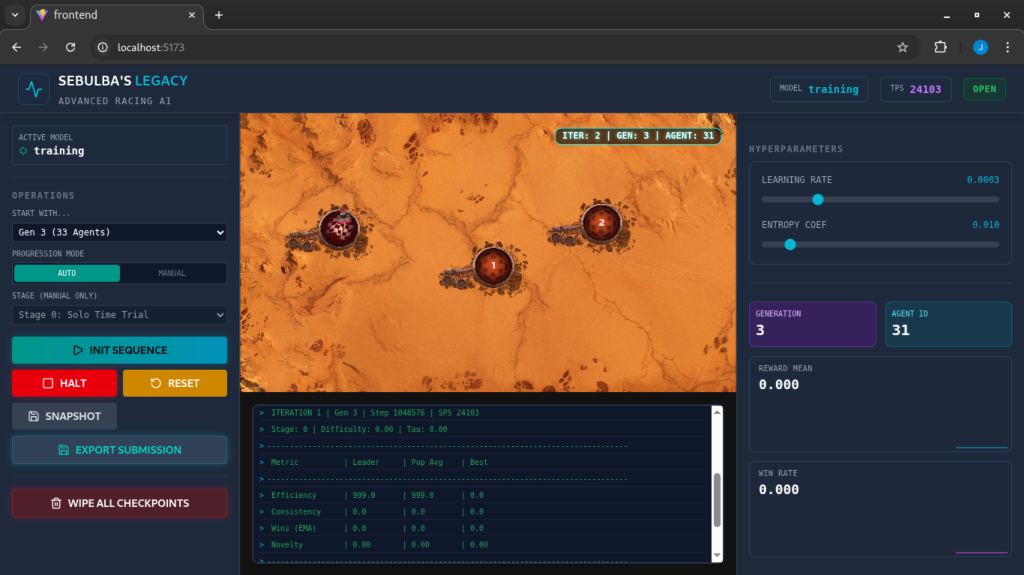
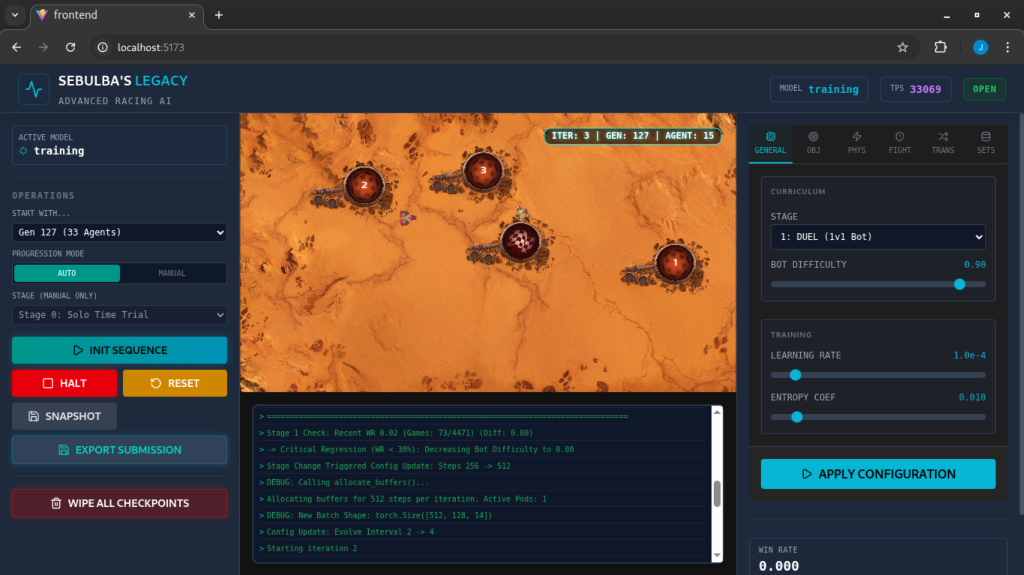
feat: Introduce PPO curriculum configuration, enhance stage check logging to include loss and timeout metrics, and update the interface preview.

diff --git a/training/ppo.py b/training/ppo.py
@@ -163,6 +163,23 @@ class PPOTrainer:
         self.grad_consistency_counter = 0
         self.team_spirit = 0.0 # Blending factor for rewards (0.0=Selfish, 1.0=Cooperative)
         
+        # TRANSITION CONFIGURATION
+        self.curriculum_config = {
+             # Stage 0 -> 1
+             "solo_efficiency_threshold": STAGE_SOLO_EFFICIENCY_THRESHOLD,
+             "solo_consistency_threshold": STAGE_SOLO_CONSISTENCY_THRESHOLD,
+             
+             # Stage 1 -> 2
+             "duel_consistency_wr": 0.82,
+             "duel_absolute_wr": 0.84,
+             "duel_consistency_checks": 5,
+             
+             # Stage 2 -> 3
+             "team_consistency_wr": 0.85,
+             "team_absolute_wr": 0.88,
+             "team_consistency_checks": 5
+        }
+        
         # Allocate Initial Buffers
         self.allocate_buffers()
 
@@ -313,7 +330,11 @@ class PPOTrainer:
                 metrics["recent_wins"] = 0
                 metrics["recent_episodes"] = 0
                 
-                self.log(f"Stage 1 Check: Recent WR {rec_wr:.2f} (Games: {rec_games}/{rec_episodes}) (Diff: {self.env.bot_difficulty:.2f})")
+                # Wins, Losses, Timeouts
+                rec_losses = rec_games - rec_wins
+                rec_timeouts = rec_episodes - rec_games
+                
+                self.log(f"Stage 1 Check: Recent WR {rec_wr:.2f} | Wins: {rec_wins} | Losses: {rec_losses} | Timeouts: {rec_timeouts} | Diff: {self.env.bot_difficulty:.2f}")
                 
                 if rec_wr < 0.30:
                     # Critical Failure: Immediate Regression
@@ -419,7 +440,11 @@ class PPOTrainer:
                 metrics["recent_wins"] = 0
                 metrics["recent_episodes"] = 0
                 
-                self.log(f"Stage 2 (Team) Check: Recent WR {rec_wr:.2f} (Games: {rec_games}/{rec_episodes}) (Diff: {self.env.bot_difficulty:.2f})")
+                # Wins, Losses, Timeouts
+                rec_losses = rec_games - rec_wins
+                rec_timeouts = rec_episodes - rec_games
+
+                self.log(f"Stage 2 (Team) Check: Recent WR {rec_wr:.2f} | Wins: {rec_wins} | Losses: {rec_losses} | Timeouts: {rec_timeouts} | Diff: {self.env.bot_difficulty:.2f}")
                 
                 if rec_wr < 0.30:
                     if self.curriculum_mode == "auto":
